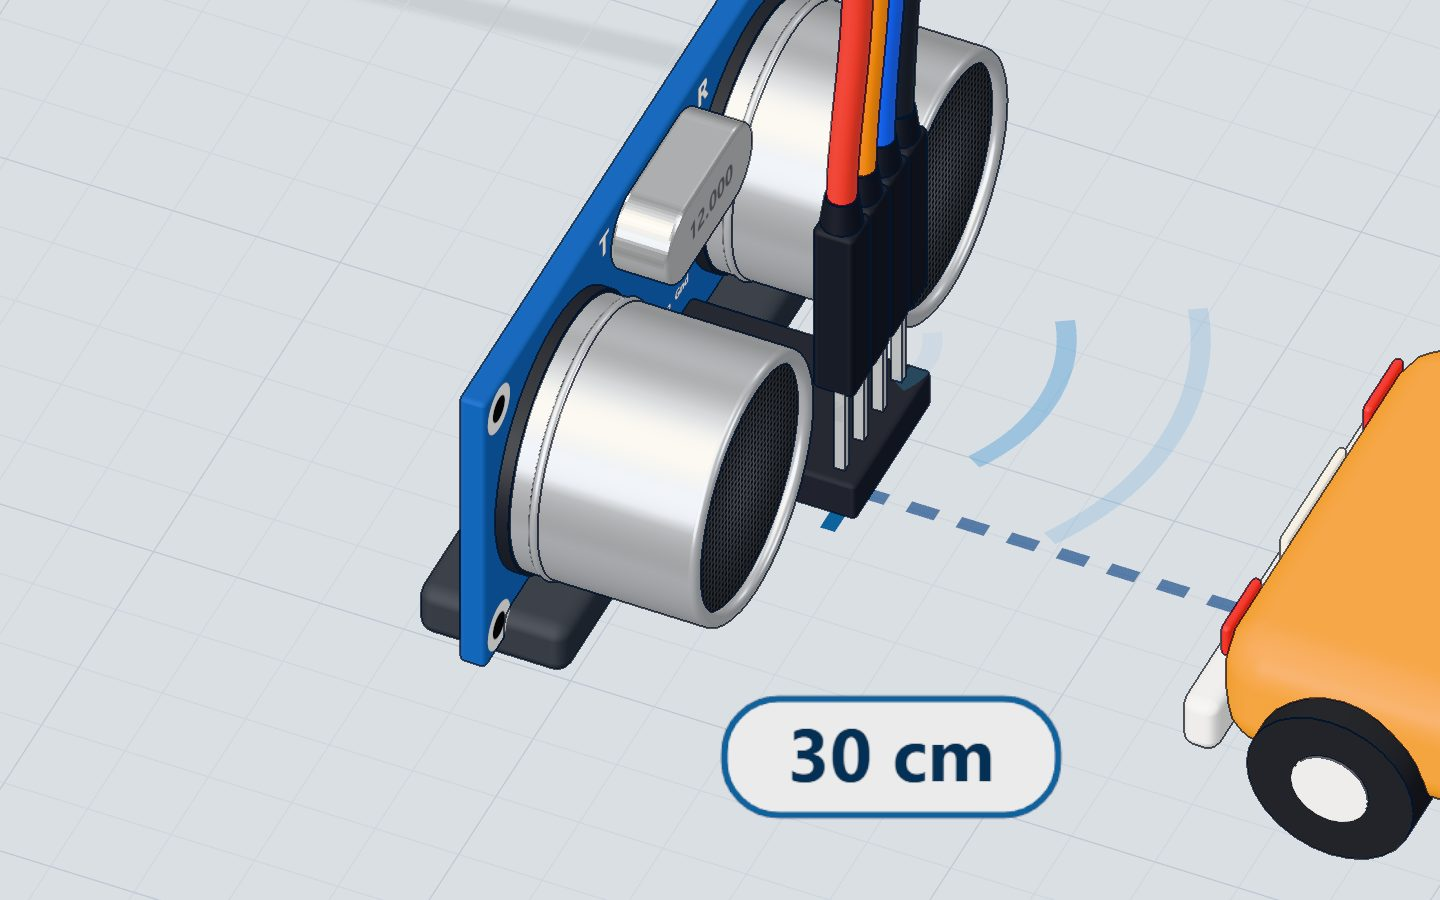
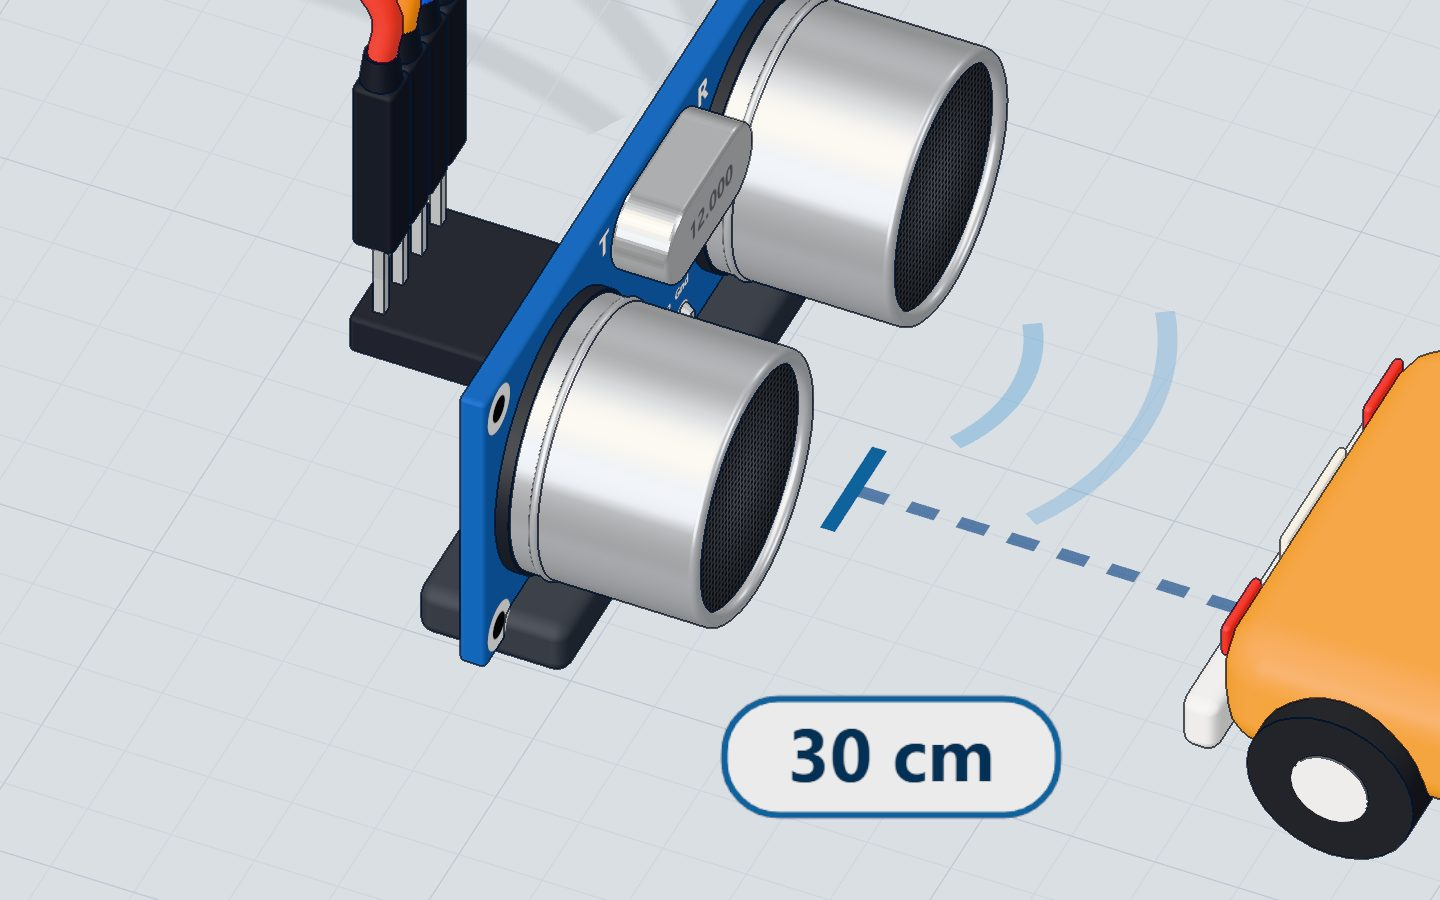
fix(3d): the HC-SR04's pin header is on the back of the board, like the real one (wires come from behind, the eyes stay clear); its pictures retaken

Changed region(s): [[0.4688, 0.0, 0.75, 0.5911], [0.2188, 0.0, 0.4062, 0.4356], [0.7188, 0.3422, 0.8438, 0.6222]]

diff --git a/src/three/parts/bench/Sonar.tsx b/src/three/parts/bench/Sonar.tsx
@@ -17,11 +17,12 @@ import { castSolid, decal, legZ, noRay, pinMesh, silkHole, silkText, soic, solde
 
 const BOARD = { w: 45, h: 20, t: 1.6, y0: 1.5, z: -4.8 };      // the PCB: bottom edge at y0, centre plane at z
 const FRONT = BOARD.z + BOARD.t / 2;                           // the PCB's front face
+const BACK = BOARD.z - BOARD.t / 2;                            // …and its back, where the pins are (as on the real board)
 const CAN = { x: 13, y: BOARD.y0 + BOARD.h / 2, r: 8, depth: 12 };
 export const SONAR_FACE_Z = FRONT + CAN.depth;                 // the transducers' mesh fronts (8 mm)
 const PINS_X = [-3.81, -1.27, 1.27, 3.81];                     // VCC, TRIG, ECHO, GND (tips: PART_DEFS.hcsr04.bench.pins)
-const PIN_TIP = { y: 12, z: 9 };
-const LEG_Y = 4.4;                                             // the right-angle header's legs through the PCB
+const PIN_TIP = { y: 12, z: -18.6 };                           // behind the board: wires come from behind, the eyes stay clear
+const LEG_Y = 5.4;                                             // the right-angle header's legs through the PCB
 
 // The obstacle's distance: the gap between the sensor face and the car's bumper is 8 mm + 0.6 mm per cm.
 export const gapOf = (cm: number) => 8 + Math.min(400, Math.max(2, cm)) * 0.6;
@@ -96,13 +97,14 @@ function buildSensor() {
   const xtal = crystal(); xtal.position.set(0, 18.4, FRONT + 0.2); g.add(xtal);
   // a little stand the board is pushed into
   const stand = rbox(40, 3.4, 9, 0.9, std('#3B4049', 0.75)); stand.position.set(0, 1.7, BOARD.z); g.add(stand);
-  // a right-angle pin adapter: legs through the board into a long plastic body, the pins standing up at its front
-  const body = rbox(4 * 2.54, 2.6, PIN_TIP.z + 1.4 - FRONT, 0.3, MATERIALS.header);
-  body.position.set(0, LEG_Y, (FRONT + PIN_TIP.z + 1.4) / 2); g.add(body);
+  // a right-angle pin adapter on the back: legs through the board (soldered on the front) into a long plastic body behind it,
+  // the pins standing up at its far end
+  const body = rbox(4 * 2.54, 2.6, BACK - (PIN_TIP.z - 1.4), 0.3, MATERIALS.header);
+  body.position.set(0, LEG_Y, (BACK + PIN_TIP.z - 1.4) / 2); g.add(body);
   for (const x of PINS_X) {
-    g.add(legZ(x, LEG_Y, BOARD.z - BOARD.t / 2 - 0.5, FRONT + 0.5));
+    g.add(legZ(x, LEG_Y, FRONT + 0.5, BACK - 0.5));
     g.add(pinMesh(x, PIN_TIP.z, LEG_Y, PIN_TIP.y));
-    const j = solderJoint(); j.rotation.x = -Math.PI / 2; j.position.set(x, LEG_Y, BOARD.z - BOARD.t / 2 - 0.35); g.add(j);
+    const j = solderJoint(); j.rotation.x = Math.PI / 2; j.position.set(x, LEG_Y, FRONT + 0.35); g.add(j);
   }
   return castSolid(g);
 }

diff --git a/src/circuit/parts.ts b/src/circuit/parts.ts
@@ -116,8 +116,8 @@ export const PART_DEFS: Record<PartType, PartDef> = {
   motor: { ...module({ w: 30, d: 30, h: 28, pins: { '+': [-3, 10, 12], '-': [3, 10, 12] } }), params: [{ key: 'load', options: ['fan', 'none'], default: 'fan' }], inputs: [] },
   // SG90 micro servo: its lead ends in a 3-pin plug — brown GND, red V+, orange signal
   servo: { ...module({ w: 34, d: 20, h: 30, pins: header(['GND', 'V+', 'SIG'], 0, 6, 16) }), params: [], inputs: [] },
-  // HC-SR04 ultrasonic distance sensor, eyes facing away from the UNO; `cm` is how far the obstacle is
-  hcsr04: { ...module({ w: 46, d: 22, h: 16, pins: header(['VCC', 'TRIG', 'ECHO', 'GND'], 0, 12, 9) }), params: [], inputs: [{ key: 'cm', min: 2, max: 400, step: 1, unit: 'cm', default: 30 }] },
+  // HC-SR04 ultrasonic distance sensor, eyes facing away from the UNO and its pin header on the back; `cm` is how far the obstacle is
+  hcsr04: { ...module({ w: 46, d: 22, h: 16, pins: header(['VCC', 'TRIG', 'ECHO', 'GND'], 0, 12, -18.6) }), params: [], inputs: [{ key: 'cm', min: 2, max: 400, step: 1, unit: 'cm', default: 30 }] },
   // 28BYJ-48 stepper on its ULN2003 driver board: IN1–IN4, + and −
   stepper: { ...module({ w: 76, d: 40, h: 22, pins: { ...header(['IN1', 'IN2', 'IN3', 'IN4'], 14, 6, 16), '+': [26, 6, 10], '-': [26, 6, 7.46] } }), params: [{ key: 'load', options: ['wheel', 'none'], default: 'wheel' }], inputs: [] },
   // 0.96" SSD1306 OLED, 128 × 64, I²C: GND, VCC, SCL, SDA

diff --git a/vite.config.ts b/vite.config.ts
@@ -15,7 +15,8 @@ const TYPES: Record<string, string> = {
 function learnPages(): Plugin {
   const out = path.resolve('node_modules/.learn-dev');
   const rebuild = async () => {
-    const { build } = await import('./tools/learn/build.mjs');
+    const builder = './tools/learn/build.mjs'; // (plain JavaScript, loaded as it is)
+    const { build } = (await import(/* @vite-ignore */ builder)) as { build(dir: string): unknown };
     build(out);
   };
   return {
